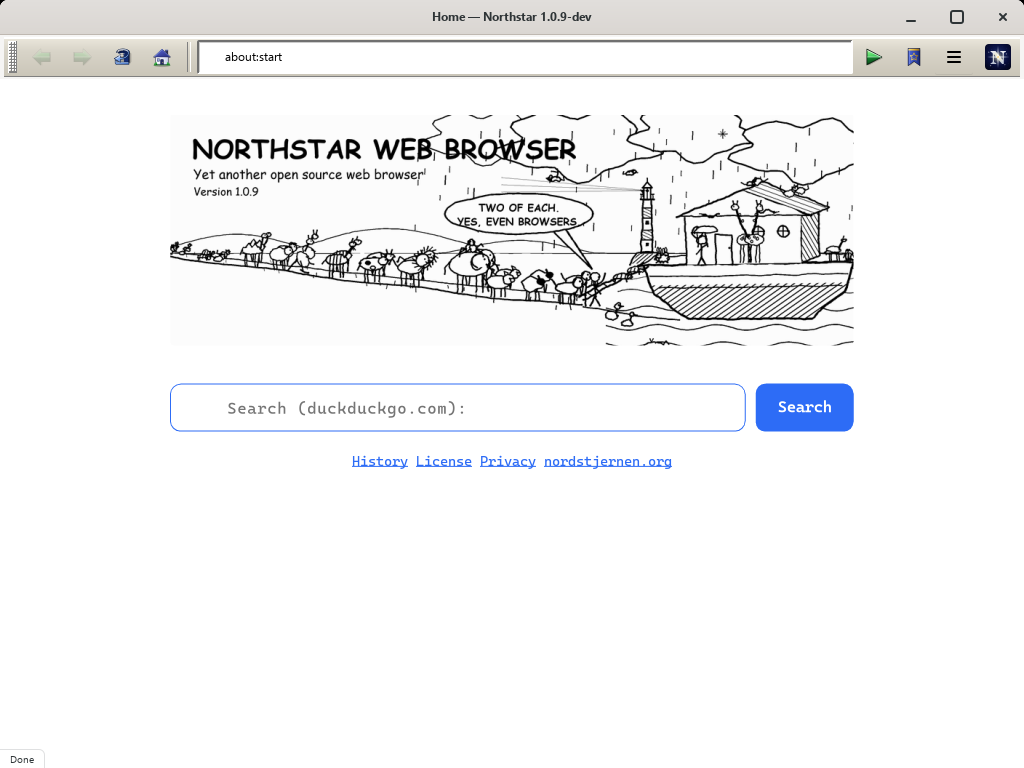
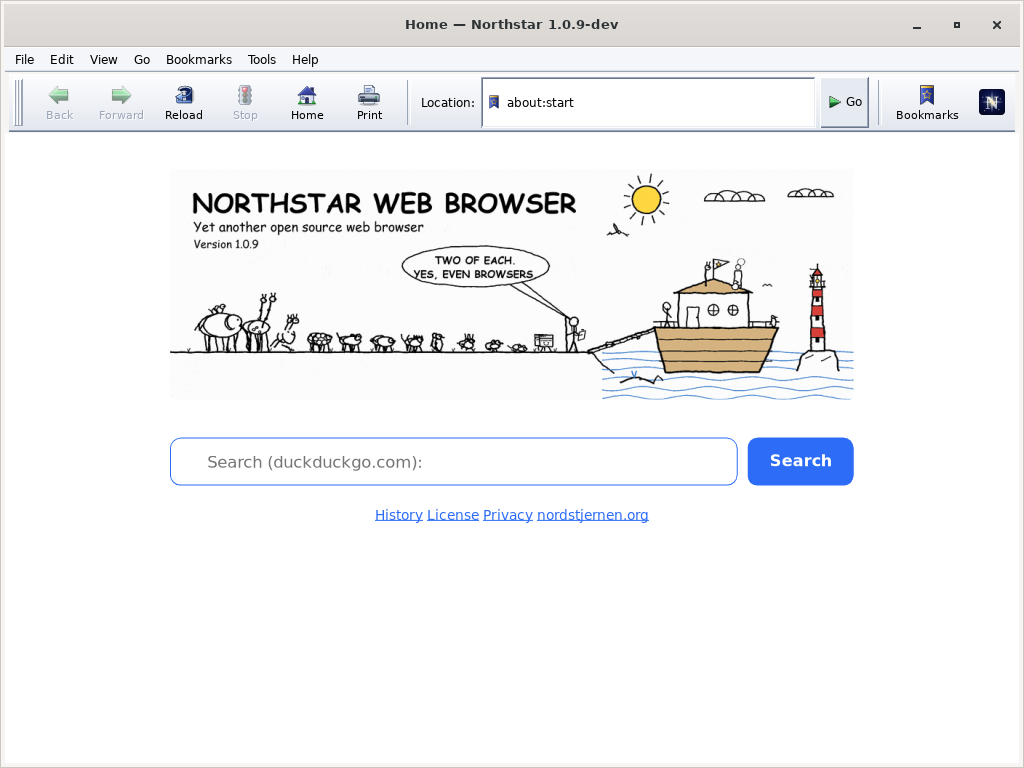
Update the README screenshot with the Mozilla 1.0 style chrome
Capture the full browser window at 1024x768 on about:start, showing the
classic menubar, the Netscape-style navigation toolbar with its labelled
Back, Forward, Reload, Stop, Home, Print and Bookmarks buttons, the
"Location:" field with the Go button, and the sunny xkcd-style splash
comic with the lighthouse. The previous capture still showed the old
hamburger-menu toolbar.

diff --git a/Changelog.md b/Changelog.md
@@ -43,7 +43,9 @@ Significant changes in each release:
   whale surfacing to spout, on one 256-colour palette rendered at three
   times supersampling. `scripts/gen-splash.py` prefers its explicit font
   paths over `fc-match`, so the lettering stays comic on Windows. The
-  README screenshot is updated with a full browser window capture.
+  README screenshot is updated with a full browser window capture,
+  showing the classic menubar and navigation toolbar above the sunny
+  about:start comic.
 * `<textarea rows>` and `cols` are parsed as bounded non-negative
   integers (1 to 1000, defaulting to 2 and 20), so an attribute like
   `rows="2000000000"` no longer makes layout build billions of
